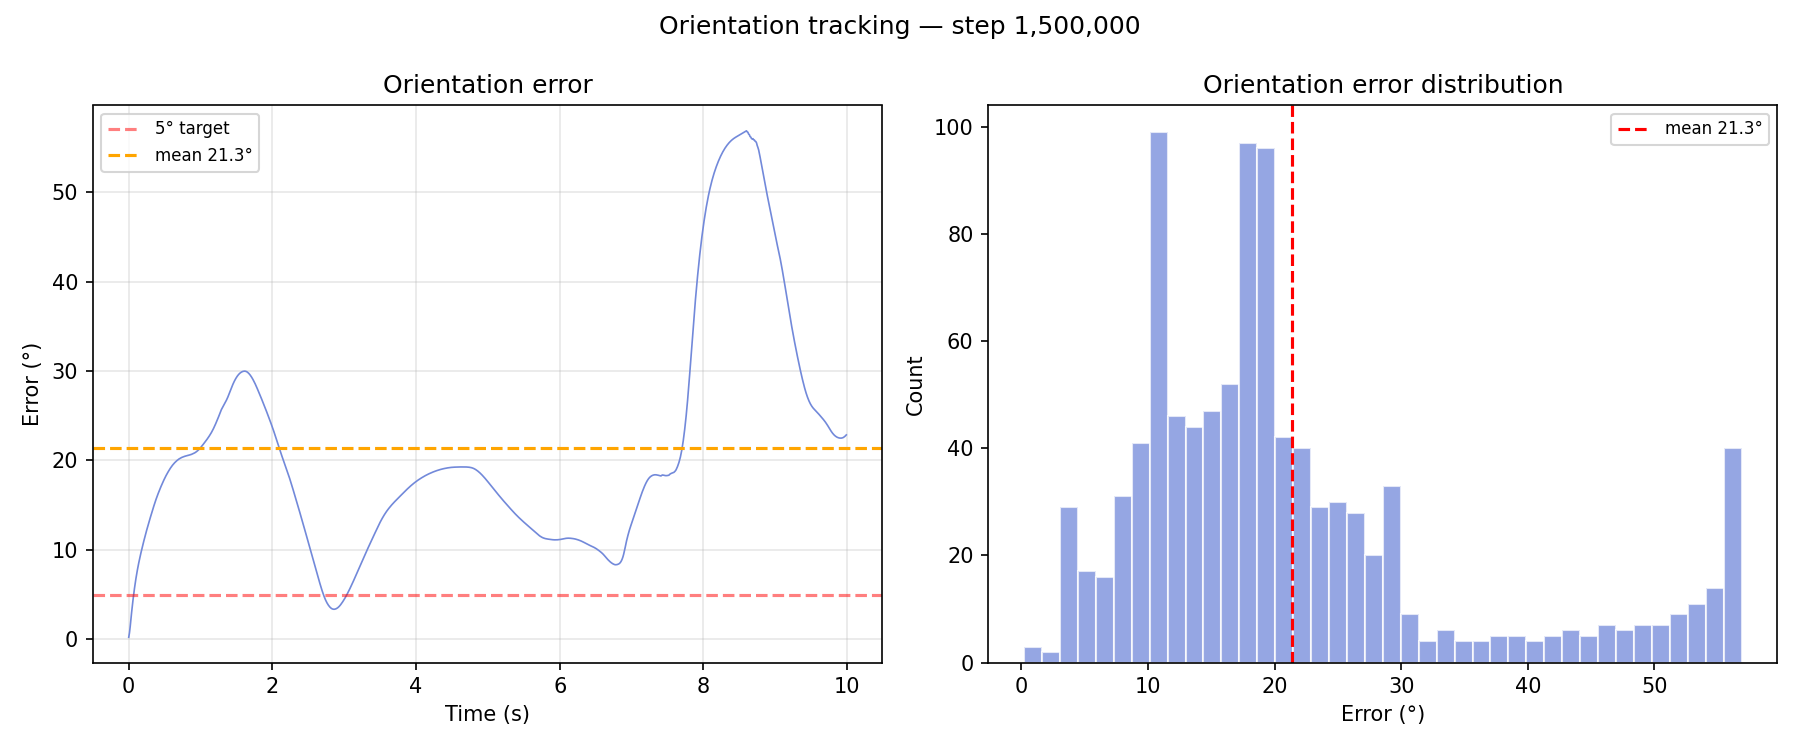
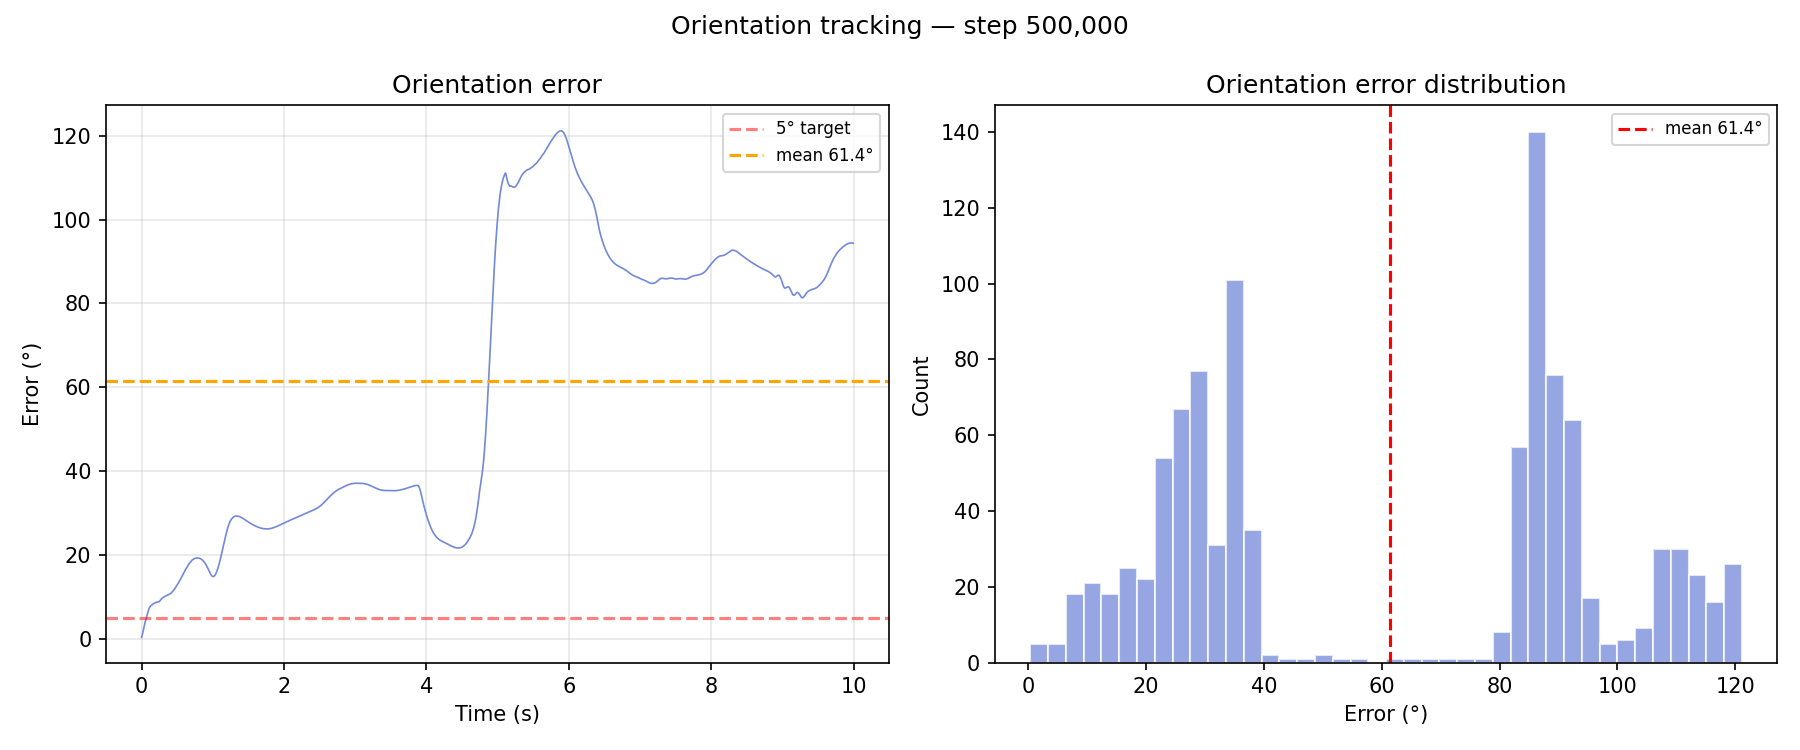
Add plots and GIF to soft-finetune branch

diff --git a/README.md b/README.md
@@ -22,6 +22,19 @@ The fine-tuning attempts on this branch **failed to produce the expected improve
 1. **Noise Sensitivity**: The exponential reward is highly sensitive to noise when the scale is small.
 2. **Future Directions**: A more gradual noise curriculum or recurrent policies (like SAC-LSTM) would be required to handle this level of uncertainty while maintaining precision.
 
+### Visualizing the Failure (Plots & GIFs)
+
+Despite the failure to improve orientation, here are the training plots and evaluation from this branch (at 500k steps) to document the behavior:
+
+![Training Progress](assets/training_progress.png)
+*Fig 1: Reward and tracking error during soft fine-tuning. Notice the high variance or lack of improvement due to noise.*
+
+![Orientation Details](assets/orientation_details.png)
+*Fig 2: Orientation error analysis. The agent fails to sharpen the orientation tracking.*
+
+![Failed Evaluation](assets/evaluation.gif)
+*Fig 3: Animated evaluation showing the robot struggling with orientation under high noise.*
+
 ---
 
 ## Repository Structure
